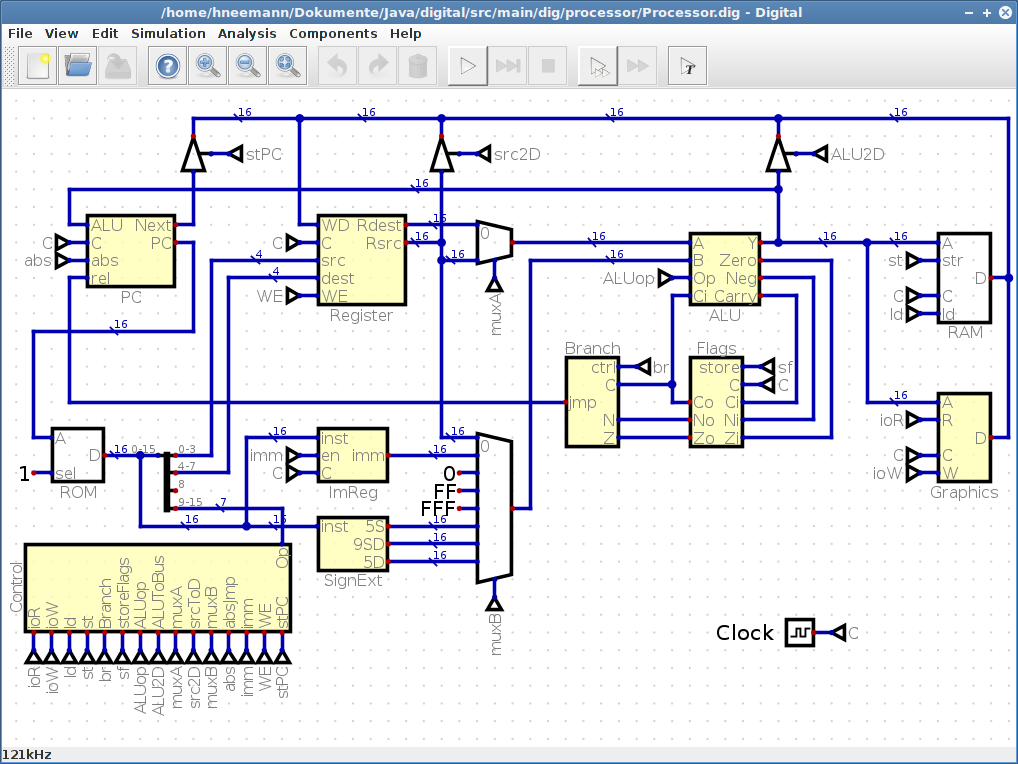
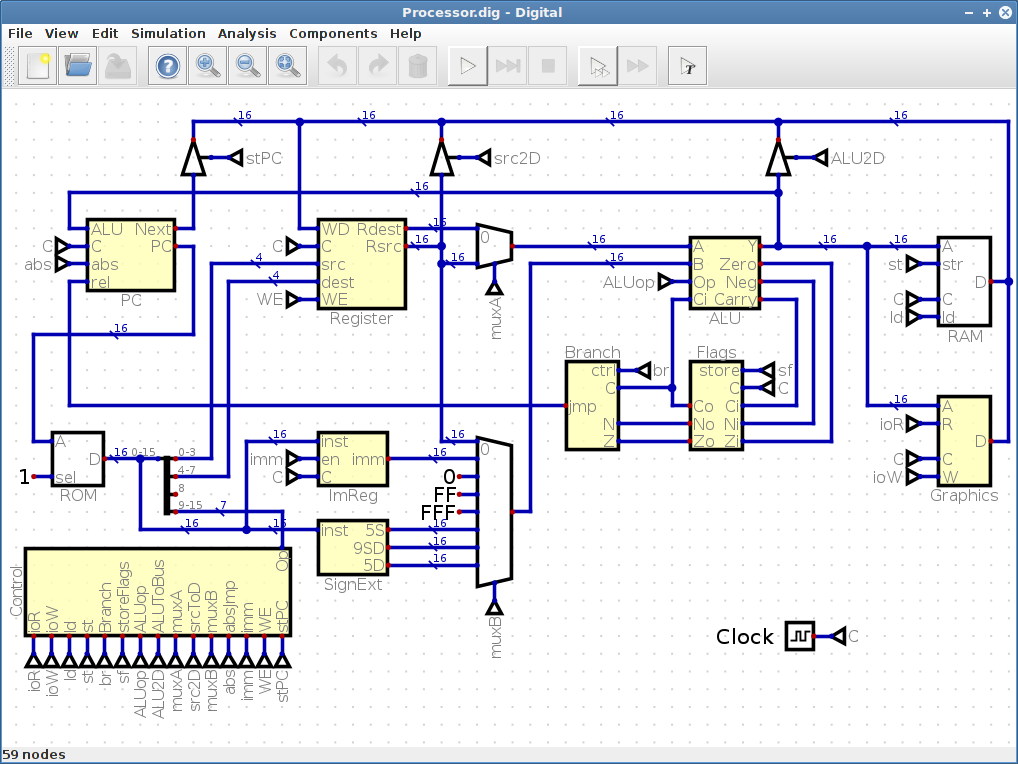
updated screenshot

diff --git a/src/test/java/de/neemann/digital/docu/ScreenShots.java b/src/test/java/de/neemann/digital/docu/ScreenShots.java
@@ -2,11 +2,13 @@ package de.neemann.digital.docu;
 
 import de.neemann.digital.gui.Main;
 import de.neemann.digital.gui.components.AttributeDialog;
+import de.neemann.digital.gui.components.graphics.GraphicDialog;
 import de.neemann.digital.gui.components.karnaugh.KarnaughMapDialog;
 import de.neemann.digital.gui.components.table.TableDialog;
 import de.neemann.digital.integration.GuiTester;
 import de.neemann.digital.integration.Resources;
 import de.neemann.digital.lang.Lang;
+import de.neemann.gui.language.Language;
 
 import javax.imageio.ImageIO;
 import javax.swing.*;
@@ -16,11 +18,42 @@ import java.awt.image.BufferedImage;
 import java.io.File;
 
 import static de.neemann.digital.draw.shapes.GenericShape.SIZE;
-import static de.neemann.digital.draw.shapes.GenericShape.SIZE2;
 
+
+/**
+ * Run this main method to create the screen shots required.
+ */
 public class ScreenShots {
 
+    private static GraphicDialog graphic;
+
     public static void main(String[] args) {
+        mainScreenShot();
+//        firstSteps();
+    }
+
+    private static void mainScreenShot() {
+        Lang.setActualRuntimeLanguage(new Language("en"));
+        new GuiTester("../../main/dig/processor/Processor.dig")
+                .add(new GuiTester.WindowCheck<>(Main.class, (gt, m) -> m.setTitle("Processor.dig - Digital")))
+                .press(' ')
+                .delay(500)
+                .add(new GuiTester.WindowCheck<>(GraphicDialog.class, (gt, gd) -> {
+                    graphic = gd;
+                    final Main main = (Main) gd.getParent();
+                    main.getCircuitComponent().requestFocus();
+                }))
+                .delay(500)
+                .press(' ')
+                .add((gt) -> graphic.dispose())
+                .delay(500)
+                .press("F1")
+                .add(new MainScreenShot())
+                .execute();
+    }
+
+    // Set all settings as needed before start this method
+    public static void firstSteps() {
         int x = 300;
         int y = 180;
         new GuiTester()
@@ -59,6 +92,7 @@ public class ScreenShots {
                 .press("ENTER")
                 .add(new ClickAtCircuit(x + SIZE * 9, y + SIZE, InputEvent.BUTTON1_MASK))
                 .add(new ScreenShot<>(Main.class))
+                // wires
                 .add(new ClickAtCircuit(x, y - SIZE, InputEvent.BUTTON1_MASK))
                 .add(new ClickAtCircuit(x + SIZE * 2, y - SIZE, InputEvent.BUTTON1_MASK))
                 .add(new ScreenShot<>(Main.class))
@@ -67,12 +101,13 @@ public class ScreenShots {
                 .add(new ClickAtCircuit(x + SIZE * 5, y, InputEvent.BUTTON1_MASK))
                 .add(new ClickAtCircuit(x + SIZE * 7, y, InputEvent.BUTTON1_MASK))
                 .add(new ScreenShot<>(Main.class))
+                // run circuit
                 .press(' ')
                 .add(new ScreenShot<>(Main.class))
                 .add(new ClickAtCircuit(x - SIZE, y - SIZE, InputEvent.BUTTON1_MASK))
                 .add(new ScreenShot<>(Main.class))
                 .press(' ')
-                // labels
+                // add labels
                 .add(new ClickAtCircuit(x - SIZE, y - SIZE, InputEvent.BUTTON3_MASK))
                 .press("shift typed a")
                 .add(new ScreenShot<>(AttributeDialog.class).useParent())
@@ -81,7 +116,6 @@ public class ScreenShots {
                 .press("shift typed b", "ENTER")
                 .add(new ClickAtCircuit(x + SIZE * 8, y, InputEvent.BUTTON3_MASK))
                 .press("shift typed y", "ENTER")
-                //.add(new ScreenShot<>(Main.class))
                 // analyse
                 .press("F10")
                 .press("RIGHT", 4)
@@ -91,10 +125,10 @@ public class ScreenShots {
                 .delay(500)
                 .add(new GuiTester.WindowCheck<>(TableDialog.class, (gt, td) -> {
                     final Point location = td.getParent().getLocation();
-                    location.x+=10;
-                    location.y+=10;
+                    location.x += 10;
+                    location.y += 10;
                     td.setLocation(location);
-                    td.getContentPane().setPreferredSize(new Dimension(400,400));
+                    td.getContentPane().setPreferredSize(new Dimension(400, 400));
                     td.pack();
                 }))
                 .delay(500)
@@ -104,9 +138,25 @@ public class ScreenShots {
                 .press("DOWN", 1)
                 .add(new ScreenShot<>(TableDialog.class).useParent())
                 .press("ENTER")
+                // k-map
                 .delay(500)
                 .add(new ScreenShot<>(KarnaughMapDialog.class).useParent().useParent())
                 .execute();
+    }
+
+
+    private static class MainScreenShot extends GuiTester.WindowCheck<Main> {
+
+        MainScreenShot() {
+            super(Main.class);
+        }
+
+        @Override
+        public void checkWindow(GuiTester guiTester, Main main) throws Exception {
+            BufferedImage image = guiTester.getRobot().createScreenCapture(main.getBounds());
+            File file = new File(Resources.getRoot(), "../../../screenshot.png");
+            ImageIO.write(image, "png", file);
+        }
     }
 
     private static class ScreenShot<W extends Window> extends GuiTester.WindowCheck<W> {

diff --git a/src/test/java/de/neemann/digital/integration/GuiTester.java b/src/test/java/de/neemann/digital/integration/GuiTester.java
@@ -277,7 +277,7 @@ public class GuiTester {
     /**
      * Every test step implements this Runnable
      */
-    interface Runnable {
+    public interface Runnable {
         /**
          * Executed the test setp
          *
